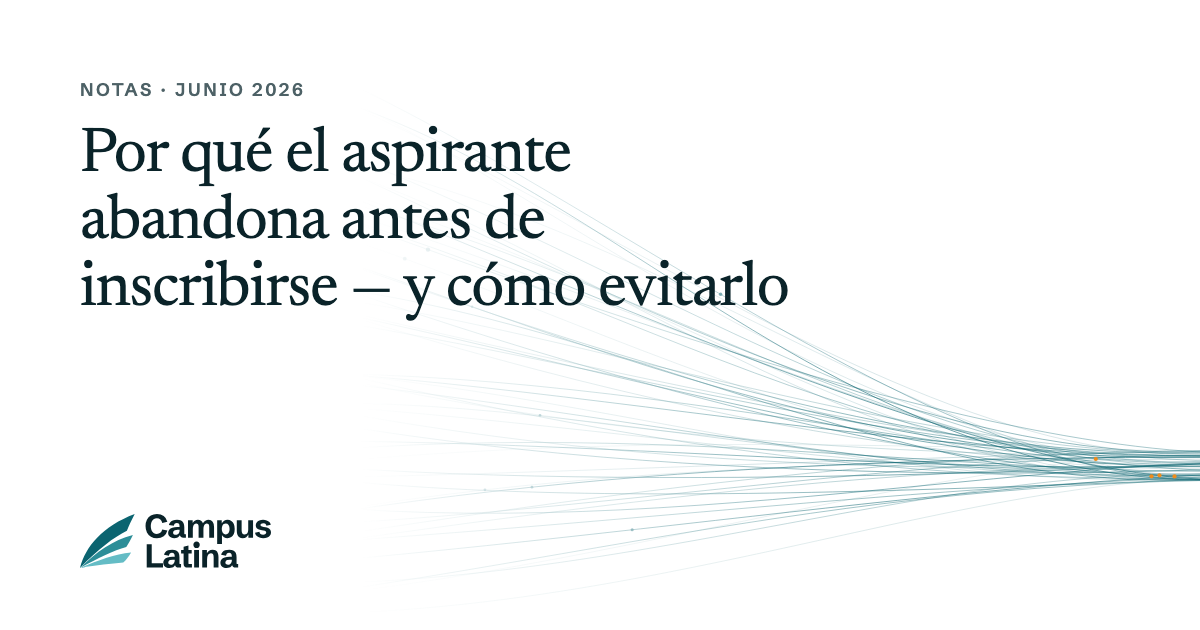
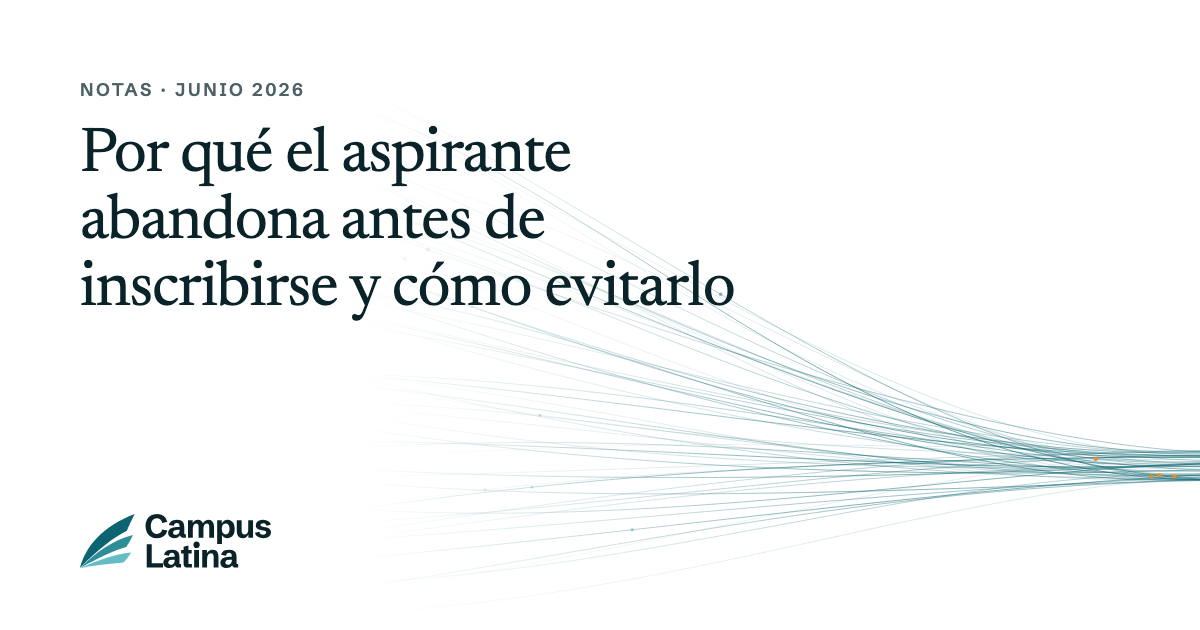
Notas: títulos sin raya para el inciso (y sus imágenes para compartir)

Changed region(s): [[0.2775, 0.3921, 0.6783, 0.5127]]

diff --git a/notas/index.html b/notas/index.html
@@ -44,7 +44,7 @@
 <meta name="twitter:image" content="https://campuslatina.com/og.png?v=4">
 <meta name="theme-color" content="#FFFFFF">
 <link rel="alternate" type="text/plain" title="Resumen para modelos de lenguaje" href="/llms.txt">
-<script type="application/ld+json">{"@context": "https://schema.org", "@graph": [{"@type": "Organization", "@id": "https://campuslatina.com/#organizacion", "name": "Campus Latina", "alternateName": "CampusLatina", "legalName": "Campus Argentina S.A.", "url": "https://campuslatina.com/", "logo": "https://campuslatina.com/logo.png", "email": "contacto@campuslatina.com", "description": "Socio de crecimiento de universidades en Latinoamérica: diseña y opera el proceso de admisión y los primeros pasos del estudiante.", "areaServed": "Latinoamérica", "address": [{"@type": "PostalAddress", "addressLocality": "Buenos Aires", "addressCountry": "AR"}, {"@type": "PostalAddress", "addressLocality": "Montevideo", "addressCountry": "UY"}], "founder": [{"@type": "Person", "name": "Sebastián Ledesma", "sameAs": ["https://www.linkedin.com/in/sebastianledesma/"]}, {"@type": "Person", "name": "Marcelo Seoane", "sameAs": ["https://www.linkedin.com/in/marcelo-seoane-/"]}], "sameAs": ["https://www.linkedin.com/company/campuslatina"]}, {"@type": "Blog", "@id": "https://campuslatina.com/notas/#blog", "name": "Notas de Campus Latina", "url": "https://campuslatina.com/notas/", "inLanguage": "es", "publisher": {"@id": "https://campuslatina.com/#organizacion"}, "blogPost": [{"@type": "BlogPosting", "headline": "Construir para el movimiento", "url": "https://campuslatina.com/notas/construir-para-el-movimiento", "datePublished": "2026-09"}, {"@type": "BlogPosting", "headline": "Por qué la mayoría de las universidades decide sin datos — y qué hacer al respecto", "url": "https://campuslatina.com/notas/cultura-de-evidencias-universidades", "datePublished": "2026-08"}, {"@type": "BlogPosting", "headline": "El bot no es la solución. El proceso que lo rodea, sí", "url": "https://campuslatina.com/notas/bot-no-es-la-solucion-proceso-admisiones", "datePublished": "2026-08"}, {"@type": "BlogPosting", "headline": "Qué pasa cuando un joven le pregunta a una IA qué estudiar — y su universidad no aparece", "url": "https://campuslatina.com/notas/universidad-visibilidad-ia-llm", "datePublished": "2026-07"}, {"@type": "BlogPosting", "headline": "Lo que los datos de 2026 confirman sobre cómo elige el estudiante latinoamericano", "url": "https://campuslatina.com/notas/como-elige-el-estudiante-latinoamericano-2026", "datePublished": "2026-07"}, {"@type": "BlogPosting", "headline": "Por qué el aspirante abandona antes de inscribirse — y cómo evitarlo", "url": "https://campuslatina.com/notas/por-que-el-aspirante-abandona-antes-de-inscribirse", "datePublished": "2026-06"}, {"@type": "BlogPosting", "headline": "El diseño del proceso es la estrategia", "url": "https://campuslatina.com/notas/el-diseno-del-proceso-es-la-estrategia", "datePublished": "2026-06"}]}, {"@type": "BreadcrumbList", "itemListElement": [{"@type": "ListItem", "position": 1, "name": "Inicio", "item": "https://campuslatina.com/"}, {"@type": "ListItem", "position": 2, "name": "Notas", "item": "https://campuslatina.com/notas/"}]}]}</script>
+<script type="application/ld+json">{"@context": "https://schema.org", "@graph": [{"@type": "Organization", "@id": "https://campuslatina.com/#organizacion", "name": "Campus Latina", "alternateName": "CampusLatina", "legalName": "Campus Argentina S.A.", "url": "https://campuslatina.com/", "logo": "https://campuslatina.com/logo.png", "email": "contacto@campuslatina.com", "description": "Socio de crecimiento de universidades en Latinoamérica: diseña y opera el proceso de admisión y los primeros pasos del estudiante.", "areaServed": "Latinoamérica", "address": [{"@type": "PostalAddress", "addressLocality": "Buenos Aires", "addressCountry": "AR"}, {"@type": "PostalAddress", "addressLocality": "Montevideo", "addressCountry": "UY"}], "founder": [{"@type": "Person", "name": "Sebastián Ledesma", "sameAs": ["https://www.linkedin.com/in/sebastianledesma/"]}, {"@type": "Person", "name": "Marcelo Seoane", "sameAs": ["https://www.linkedin.com/in/marcelo-seoane-/"]}], "sameAs": ["https://www.linkedin.com/company/campuslatina"]}, {"@type": "Blog", "@id": "https://campuslatina.com/notas/#blog", "name": "Notas de Campus Latina", "url": "https://campuslatina.com/notas/", "inLanguage": "es", "publisher": {"@id": "https://campuslatina.com/#organizacion"}, "blogPost": [{"@type": "BlogPosting", "headline": "Construir para el movimiento", "url": "https://campuslatina.com/notas/construir-para-el-movimiento", "datePublished": "2026-09"}, {"@type": "BlogPosting", "headline": "Por qué la mayoría de las universidades decide sin datos y qué hacer al respecto", "url": "https://campuslatina.com/notas/cultura-de-evidencias-universidades", "datePublished": "2026-08"}, {"@type": "BlogPosting", "headline": "El bot no es la solución. El proceso que lo rodea, sí", "url": "https://campuslatina.com/notas/bot-no-es-la-solucion-proceso-admisiones", "datePublished": "2026-08"}, {"@type": "BlogPosting", "headline": "Qué pasa cuando un joven le pregunta a una IA qué estudiar y su universidad no aparece", "url": "https://campuslatina.com/notas/universidad-visibilidad-ia-llm", "datePublished": "2026-07"}, {"@type": "BlogPosting", "headline": "Lo que los datos de 2026 confirman sobre cómo elige el estudiante latinoamericano", "url": "https://campuslatina.com/notas/como-elige-el-estudiante-latinoamericano-2026", "datePublished": "2026-07"}, {"@type": "BlogPosting", "headline": "Por qué el aspirante abandona antes de inscribirse y cómo evitarlo", "url": "https://campuslatina.com/notas/por-que-el-aspirante-abandona-antes-de-inscribirse", "datePublished": "2026-06"}, {"@type": "BlogPosting", "headline": "El diseño del proceso es la estrategia", "url": "https://campuslatina.com/notas/el-diseno-del-proceso-es-la-estrategia", "datePublished": "2026-06"}]}, {"@type": "BreadcrumbList", "itemListElement": [{"@type": "ListItem", "position": 1, "name": "Inicio", "item": "https://campuslatina.com/"}, {"@type": "ListItem", "position": 2, "name": "Notas", "item": "https://campuslatina.com/notas/"}]}]}</script>
 </head>
 <body>
 <header class="nav">
@@ -67,7 +67,7 @@
   </div>
 </section>
 <section class="sec" style="padding-top:0">
-  <div class="wrap"><ul class="lista"><li><a class="nota-fila" href="/notas/construir-para-el-movimiento"><span class="fecha">Sep 2026</span><div><h3>Construir para el movimiento</h3><p>La singularidad no es que la IA nos superó. Es que dejamos de poder predecir. Y para una universidad, eso ya pasó.</p><span class="autor">Sebastián Ledesma · 8 min de lectura</span></div><span class="flecha" aria-hidden="true">→</span></a></li><li><a class="nota-fila" href="/notas/cultura-de-evidencias-universidades"><span class="fecha">Ago 2026</span><div><h3>Por qué la mayoría de las universidades decide sin datos — y qué hacer al respecto</h3><p>Casi todas las instituciones tienen la tecnología para decidir con evidencia. Muy pocas la están usando para eso. La diferencia no es técnica — es cultural.</p><span class="autor">Sebastián Ledesma · 5 min de lectura</span></div><span class="flecha" aria-hidden="true">→</span></a></li><li><a class="nota-fila" href="/notas/bot-no-es-la-solucion-proceso-admisiones"><span class="fecha">Ago 2026</span><div><h3>El bot no es la solución. El proceso que lo rodea, sí</h3><p>Activar un chatbot de admisiones es fácil. Que ese chatbot mejore la conversión real es otra historia — y depende de cuatro condiciones que pocas instituciones cumplen.</p><span class="autor">Marcelo Seoane · 5 min de lectura</span></div><span class="flecha" aria-hidden="true">→</span></a></li><li><a class="nota-fila" href="/notas/como-elige-el-estudiante-latinoamericano-2026"><span class="fecha">Jul 2026</span><div><h3>Lo que los datos de 2026 confirman sobre cómo elige el estudiante latinoamericano</h3><p>El modelo de captación basado en leads está bajo presión. Los datos muestran que la marca y el journey completo son ahora la ventaja competitiva real.</p><span class="autor">Sebastián Ledesma · 5 min de lectura</span></div><span class="flecha" aria-hidden="true">→</span></a></li><li><a class="nota-fila" href="/notas/universidad-visibilidad-ia-llm"><span class="fecha">Jul 2026</span><div><h3>Qué pasa cuando un joven le pregunta a una IA qué estudiar — y su universidad no aparece</h3><p>Los motores de IA ya son parte del proceso de decisión educativa. Las instituciones que no estén presentes ahí están cediendo terreno sin saberlo.</p><span class="autor">Marcelo Seoane · 4 min de lectura</span></div><span class="flecha" aria-hidden="true">→</span></a></li><li><a class="nota-fila" href="/notas/el-diseno-del-proceso-es-la-estrategia"><span class="fecha">Jun 2026</span><div><h3>El diseño del proceso es la estrategia</h3><p>La mayoría de las universidades invierte en captación. Pocas invierten en el proceso que convierte a ese aspirante en estudiante. Ahí está la brecha.</p><span class="autor">Sebastián Ledesma · 5 min de lectura</span></div><span class="flecha" aria-hidden="true">→</span></a></li><li><a class="nota-fila" href="/notas/por-que-el-aspirante-abandona-antes-de-inscribirse"><span class="fecha">Jun 2026</span><div><h3>Por qué el aspirante abandona antes de inscribirse — y cómo evitarlo</h3><p>Aplicar Behavior Design al proceso de admisión no es una moda: es la diferencia entre un aspirante que avanza y uno que desaparece.</p><span class="autor">Marcelo Seoane · 6 min de lectura</span></div><span class="flecha" aria-hidden="true">→</span></a></li></ul></div>
+  <div class="wrap"><ul class="lista"><li><a class="nota-fila" href="/notas/construir-para-el-movimiento"><span class="fecha">Sep 2026</span><div><h3>Construir para el movimiento</h3><p>La singularidad no es que la IA nos superó. Es que dejamos de poder predecir. Y para una universidad, eso ya pasó.</p><span class="autor">Sebastián Ledesma · 8 min de lectura</span></div><span class="flecha" aria-hidden="true">→</span></a></li><li><a class="nota-fila" href="/notas/cultura-de-evidencias-universidades"><span class="fecha">Ago 2026</span><div><h3>Por qué la mayoría de las universidades decide sin datos y qué hacer al respecto</h3><p>Casi todas las instituciones tienen la tecnología para decidir con evidencia. Muy pocas la están usando para eso. La diferencia no es técnica — es cultural.</p><span class="autor">Sebastián Ledesma · 5 min de lectura</span></div><span class="flecha" aria-hidden="true">→</span></a></li><li><a class="nota-fila" href="/notas/bot-no-es-la-solucion-proceso-admisiones"><span class="fecha">Ago 2026</span><div><h3>El bot no es la solución. El proceso que lo rodea, sí</h3><p>Activar un chatbot de admisiones es fácil. Que ese chatbot mejore la conversión real es otra historia — y depende de cuatro condiciones que pocas instituciones cumplen.</p><span class="autor">Marcelo Seoane · 5 min de lectura</span></div><span class="flecha" aria-hidden="true">→</span></a></li><li><a class="nota-fila" href="/notas/como-elige-el-estudiante-latinoamericano-2026"><span class="fecha">Jul 2026</span><div><h3>Lo que los datos de 2026 confirman sobre cómo elige el estudiante latinoamericano</h3><p>El modelo de captación basado en leads está bajo presión. Los datos muestran que la marca y el journey completo son ahora la ventaja competitiva real.</p><span class="autor">Sebastián Ledesma · 5 min de lectura</span></div><span class="flecha" aria-hidden="true">→</span></a></li><li><a class="nota-fila" href="/notas/universidad-visibilidad-ia-llm"><span class="fecha">Jul 2026</span><div><h3>Qué pasa cuando un joven le pregunta a una IA qué estudiar y su universidad no aparece</h3><p>Los motores de IA ya son parte del proceso de decisión educativa. Las instituciones que no estén presentes ahí están cediendo terreno sin saberlo.</p><span class="autor">Marcelo Seoane · 4 min de lectura</span></div><span class="flecha" aria-hidden="true">→</span></a></li><li><a class="nota-fila" href="/notas/el-diseno-del-proceso-es-la-estrategia"><span class="fecha">Jun 2026</span><div><h3>El diseño del proceso es la estrategia</h3><p>La mayoría de las universidades invierte en captación. Pocas invierten en el proceso que convierte a ese aspirante en estudiante. Ahí está la brecha.</p><span class="autor">Sebastián Ledesma · 5 min de lectura</span></div><span class="flecha" aria-hidden="true">→</span></a></li><li><a class="nota-fila" href="/notas/por-que-el-aspirante-abandona-antes-de-inscribirse"><span class="fecha">Jun 2026</span><div><h3>Por qué el aspirante abandona antes de inscribirse y cómo evitarlo</h3><p>Aplicar Behavior Design al proceso de admisión no es una moda: es la diferencia entre un aspirante que avanza y uno que desaparece.</p><span class="autor">Marcelo Seoane · 6 min de lectura</span></div><span class="flecha" aria-hidden="true">→</span></a></li></ul></div>
 </section>
 <section class="sec alt" aria-labelledby="llamado-t">
   <div class="wrap llamado">

diff --git a/notas/por-que-el-aspirante-abandona-antes-de-inscribirse.html b/notas/por-que-el-aspirante-abandona-antes-de-inscribirse.html
@@ -10,7 +10,7 @@
 <link rel="icon" type="image/svg+xml" href="/assets/isotipo.svg">
 <link rel="apple-touch-icon" href="/apple-touch-icon.png">
 <link rel="manifest" href="/manifest.webmanifest">
-<title>Por qué el aspirante abandona antes de inscribirse — y cómo evitarlo — Campus Latina</title>
+<title>Por qué el aspirante abandona antes de inscribirse y cómo evitarlo — Campus Latina</title>
 <meta name="description" content="El abandono en admisión rara vez es por falta de interés. Casi siempre es por falta de diseño. Entender la diferencia cambia todo.">
 <!-- Google Analytics 4: la librería se carga después de que la página terminó de cargar, para no frenar la primera pintura.
      Los eventos que se registren antes quedan en dataLayer y se envían igual. -->
@@ -32,19 +32,19 @@
 <meta property="og:type" content="article">
 <meta property="og:site_name" content="Campus Latina">
 <meta property="og:locale" content="es_LA">
-<meta property="og:title" content="Por qué el aspirante abandona antes de inscribirse — y cómo evitarlo">
+<meta property="og:title" content="Por qué el aspirante abandona antes de inscribirse y cómo evitarlo">
 <meta property="og:description" content="El abandono en admisión rara vez es por falta de interés. Casi siempre es por falta de diseño. Entender la diferencia cambia todo.">
 <meta property="og:url" content="https://campuslatina.com/notas/por-que-el-aspirante-abandona-antes-de-inscribirse">
-<meta property="og:image" content="https://campuslatina.com/assets/notas/por-que-el-aspirante-abandona-antes-de-inscribirse.png">
+<meta property="og:image" content="https://campuslatina.com/assets/notas/por-que-el-aspirante-abandona-antes-de-inscribirse.png?v=2">
 <meta property="og:image:width" content="1200">
 <meta property="og:image:height" content="630">
 <meta name="twitter:card" content="summary_large_image">
-<meta name="twitter:title" content="Por qué el aspirante abandona antes de inscribirse — y cómo evitarlo">
+<meta name="twitter:title" content="Por qué el aspirante abandona antes de inscribirse y cómo evitarlo">
 <meta name="twitter:description" content="El abandono en admisión rara vez es por falta de interés. Casi siempre es por falta de diseño. Entender la diferencia cambia todo.">
-<meta name="twitter:image" content="https://campuslatina.com/assets/notas/por-que-el-aspirante-abandona-antes-de-inscribirse.png">
+<meta name="twitter:image" content="https://campuslatina.com/assets/notas/por-que-el-aspirante-abandona-antes-de-inscribirse.png?v=2">
 <meta name="theme-color" content="#FFFFFF">
 <link rel="alternate" type="text/plain" title="Resumen para modelos de lenguaje" href="/llms.txt">
-<script type="application/ld+json">{"@context": "https://schema.org", "@graph": [{"@type": "Organization", "@id": "https://campuslatina.com/#organizacion", "name": "Campus Latina", "alternateName": "CampusLatina", "legalName": "Campus Argentina S.A.", "url": "https://campuslatina.com/", "logo": "https://campuslatina.com/logo.png", "email": "contacto@campuslatina.com", "description": "Socio de crecimiento de universidades en Latinoamérica: diseña y opera el proceso de admisión y los primeros pasos del estudiante.", "areaServed": "Latinoamérica", "address": [{"@type": "PostalAddress", "addressLocality": "Buenos Aires", "addressCountry": "AR"}, {"@type": "PostalAddress", "addressLocality": "Montevideo", "addressCountry": "UY"}], "founder": [{"@type": "Person", "name": "Sebastián Ledesma", "sameAs": ["https://www.linkedin.com/in/sebastianledesma/"]}, {"@type": "Person", "name": "Marcelo Seoane", "sameAs": ["https://www.linkedin.com/in/marcelo-seoane-/"]}], "sameAs": ["https://www.linkedin.com/company/campuslatina"]}, {"@type": "BlogPosting", "@id": "https://campuslatina.com/notas/por-que-el-aspirante-abandona-antes-de-inscribirse#nota", "headline": "Por qué el aspirante abandona antes de inscribirse — y cómo evitarlo", "description": "El abandono en admisión rara vez es por falta de interés. Casi siempre es por falta de diseño. Entender la diferencia cambia todo.", "inLanguage": "es", "datePublished": "2026-06-23", "dateModified": "2026-06-23", "url": "https://campuslatina.com/notas/por-que-el-aspirante-abandona-antes-de-inscribirse", "mainEntityOfPage": "https://campuslatina.com/notas/por-que-el-aspirante-abandona-antes-de-inscribirse", "image": "https://campuslatina.com/assets/notas/por-que-el-aspirante-abandona-antes-de-inscribirse.png", "author": {"@type": "Person", "name": "Marcelo Seoane", "jobTitle": "Co-founder, Campus Latina", "worksFor": {"@id": "https://campuslatina.com/#organizacion"}, "sameAs": ["https://www.linkedin.com/in/marcelo-seoane-/"]}, "publisher": {"@id": "https://campuslatina.com/#organizacion"}, "isPartOf": {"@id": "https://campuslatina.com/notas/#blog"}, "about": [{"@type": "Thing", "name": "Acompañamiento", "url": "https://diagnostico.campuslatina.com/guia/acompanamiento/"}, {"@type": "Thing", "name": "Inscripción", "url": "https://diagnostico.campuslatina.com/guia/inscripcion/"}, {"@type": "Thing", "name": "Retención temprana", "url": "https://diagnostico.campuslatina.com/guia/retencion-temprana/"}]}, {"@type": "BreadcrumbList", "itemListElement": [{"@type": "ListItem", "position": 1, "name": "Inicio", "item": "https://campuslatina.com/"}, {"@type": "ListItem", "position": 2, "name": "Notas", "item": "https://campuslatina.com/notas/"}, {"@type": "ListItem", "position": 3, "name": "Por qué el aspirante abandona antes de inscribirse — y cómo evitarlo", "item": "https://campuslatina.com/notas/por-que-el-aspirante-abandona-antes-de-inscribirse"}]}]}</script>
+<script type="application/ld+json">{"@context": "https://schema.org", "@graph": [{"@type": "Organization", "@id": "https://campuslatina.com/#organizacion", "name": "Campus Latina", "alternateName": "CampusLatina", "legalName": "Campus Argentina S.A.", "url": "https://campuslatina.com/", "logo": "https://campuslatina.com/logo.png", "email": "contacto@campuslatina.com", "description": "Socio de crecimiento de universidades en Latinoamérica: diseña y opera el proceso de admisión y los primeros pasos del estudiante.", "areaServed": "Latinoamérica", "address": [{"@type": "PostalAddress", "addressLocality": "Buenos Aires", "addressCountry": "AR"}, {"@type": "PostalAddress", "addressLocality": "Montevideo", "addressCountry": "UY"}], "founder": [{"@type": "Person", "name": "Sebastián Ledesma", "sameAs": ["https://www.linkedin.com/in/sebastianledesma/"]}, {"@type": "Person", "name": "Marcelo Seoane", "sameAs": ["https://www.linkedin.com/in/marcelo-seoane-/"]}], "sameAs": ["https://www.linkedin.com/company/campuslatina"]}, {"@type": "BlogPosting", "@id": "https://campuslatina.com/notas/por-que-el-aspirante-abandona-antes-de-inscribirse#nota", "headline": "Por qué el aspirante abandona antes de inscribirse y cómo evitarlo", "description": "El abandono en admisión rara vez es por falta de interés. Casi siempre es por falta de diseño. Entender la diferencia cambia todo.", "inLanguage": "es", "datePublished": "2026-06-23", "dateModified": "2026-06-23", "url": "https://campuslatina.com/notas/por-que-el-aspirante-abandona-antes-de-inscribirse", "mainEntityOfPage": "https://campuslatina.com/notas/por-que-el-aspirante-abandona-antes-de-inscribirse", "image": "https://campuslatina.com/assets/notas/por-que-el-aspirante-abandona-antes-de-inscribirse.png?v=2", "author": {"@type": "Person", "name": "Marcelo Seoane", "jobTitle": "Co-founder, Campus Latina", "worksFor": {"@id": "https://campuslatina.com/#organizacion"}, "sameAs": ["https://www.linkedin.com/in/marcelo-seoane-/"]}, "publisher": {"@id": "https://campuslatina.com/#organizacion"}, "isPartOf": {"@id": "https://campuslatina.com/notas/#blog"}, "about": [{"@type": "Thing", "name": "Acompañamiento", "url": "https://diagnostico.campuslatina.com/guia/acompanamiento/"}, {"@type": "Thing", "name": "Inscripción", "url": "https://diagnostico.campuslatina.com/guia/inscripcion/"}, {"@type": "Thing", "name": "Retención temprana", "url": "https://diagnostico.campuslatina.com/guia/retencion-temprana/"}]}, {"@type": "BreadcrumbList", "itemListElement": [{"@type": "ListItem", "position": 1, "name": "Inicio", "item": "https://campuslatina.com/"}, {"@type": "ListItem", "position": 2, "name": "Notas", "item": "https://campuslatina.com/notas/"}, {"@type": "ListItem", "position": 3, "name": "Por qué el aspirante abandona antes de inscribirse y cómo evitarlo", "item": "https://campuslatina.com/notas/por-que-el-aspirante-abandona-antes-de-inscribirse"}]}]}</script>
 </head>
 <body>
 <header class="nav">
@@ -60,7 +60,7 @@
   <header class="articulo-cab">
     <div class="wrap">
       <a href="/notas/" class="etiqueta" style="text-decoration:none">← Notas</a>
-      <h1>Por qué el aspirante abandona antes de inscribirse — y cómo evitarlo</h1>
+      <h1>Por qué el aspirante abandona antes de inscribirse y cómo evitarlo</h1>
       <p class="bajada">El abandono en admisión rara vez es por falta de interés. Casi siempre es por falta de diseño. Entender la diferencia cambia todo.</p>
       <p class="firma"><span>Por <b>Marcelo Seoane</b>, cofundador de Campus Latina</span><span>Junio 2026</span><span>6 min de lectura</span></p>
     </div>

diff --git a/notas/universidad-visibilidad-ia-llm.html b/notas/universidad-visibilidad-ia-llm.html
@@ -32,19 +32,19 @@
 <meta property="og:type" content="article">
 <meta property="og:site_name" content="Campus Latina">
 <meta property="og:locale" content="es_LA">
-<meta property="og:title" content="Qué pasa cuando un joven le pregunta a una IA qué estudiar — y su universidad no aparece">
+<meta property="og:title" content="Qué pasa cuando un joven le pregunta a una IA qué estudiar y su universidad no aparece">
 <meta property="og:description" content="Los motores de inteligencia artificial ya son parte del proceso de decisión educativa. Las instituciones que no estén presentes ahí están cediendo terreno sin saberlo.">
 <meta property="og:url" content="https://campuslatina.com/notas/universidad-visibilidad-ia-llm">
-<meta property="og:image" content="https://campuslatina.com/assets/notas/universidad-visibilidad-ia-llm.png">
+<meta property="og:image" content="https://campuslatina.com/assets/notas/universidad-visibilidad-ia-llm.png?v=2">
 <meta property="og:image:width" content="1200">
 <meta property="og:image:height" content="630">
 <meta name="twitter:card" content="summary_large_image">
-<meta name="twitter:title" content="Qué pasa cuando un joven le pregunta a una IA qué estudiar — y su universidad no aparece">
+<meta name="twitter:title" content="Qué pasa cuando un joven le pregunta a una IA qué estudiar y su universidad no aparece">
 <meta name="twitter:description" content="Los motores de inteligencia artificial ya son parte del proceso de decisión educativa. Las instituciones que no estén presentes ahí están cediendo terreno sin saberlo.">
-<meta name="twitter:image" content="https://campuslatina.com/assets/notas/universidad-visibilidad-ia-llm.png">
+<meta name="twitter:image" content="https://campuslatina.com/assets/notas/universidad-visibilidad-ia-llm.png?v=2">
 <meta name="theme-color" content="#FFFFFF">
 <link rel="alternate" type="text/plain" title="Resumen para modelos de lenguaje" href="/llms.txt">
-<script type="application/ld+json">{"@context": "https://schema.org", "@graph": [{"@type": "Organization", "@id": "https://campuslatina.com/#organizacion", "name": "Campus Latina", "alternateName": "CampusLatina", "legalName": "Campus Argentina S.A.", "url": "https://campuslatina.com/", "logo": "https://campuslatina.com/logo.png", "email": "contacto@campuslatina.com", "description": "Socio de crecimiento de universidades en Latinoamérica: diseña y opera el proceso de admisión y los primeros pasos del estudiante.", "areaServed": "Latinoamérica", "address": [{"@type": "PostalAddress", "addressLocality": "Buenos Aires", "addressCountry": "AR"}, {"@type": "PostalAddress", "addressLocality": "Montevideo", "addressCountry": "UY"}], "founder": [{"@type": "Person", "name": "Sebastián Ledesma", "sameAs": ["https://www.linkedin.com/in/sebastianledesma/"]}, {"@type": "Person", "name": "Marcelo Seoane", "sameAs": ["https://www.linkedin.com/in/marcelo-seoane-/"]}], "sameAs": ["https://www.linkedin.com/company/campuslatina"]}, {"@type": "BlogPosting", "@id": "https://campuslatina.com/notas/universidad-visibilidad-ia-llm#nota", "headline": "Qué pasa cuando un joven le pregunta a una IA qué estudiar — y su universidad no aparece", "description": "Los motores de inteligencia artificial ya son parte del proceso de decisión educativa. Las instituciones que no estén presentes ahí están cediendo terreno sin saberlo.", "inLanguage": "es", "datePublished": "2026-07-21", "dateModified": "2026-07-21", "url": "https://campuslatina.com/notas/universidad-visibilidad-ia-llm", "mainEntityOfPage": "https://campuslatina.com/notas/universidad-visibilidad-ia-llm", "image": "https://campuslatina.com/assets/notas/universidad-visibilidad-ia-llm.png", "author": {"@type": "Person", "name": "Marcelo Seoane", "jobTitle": "Co-founder, Campus Latina", "worksFor": {"@id": "https://campuslatina.com/#organizacion"}, "sameAs": ["https://www.linkedin.com/in/marcelo-seoane-/"]}, "publisher": {"@id": "https://campuslatina.com/#organizacion"}, "isPartOf": {"@id": "https://campuslatina.com/notas/#blog"}, "about": [{"@type": "Thing", "name": "Descubrimiento", "url": "https://diagnostico.campuslatina.com/guia/descubrimiento/"}]}, {"@type": "BreadcrumbList", "itemListElement": [{"@type": "ListItem", "position": 1, "name": "Inicio", "item": "https://campuslatina.com/"}, {"@type": "ListItem", "position": 2, "name": "Notas", "item": "https://campuslatina.com/notas/"}, {"@type": "ListItem", "position": 3, "name": "Qué pasa cuando un joven le pregunta a una IA qué estudiar — y su universidad no aparece", "item": "https://campuslatina.com/notas/universidad-visibilidad-ia-llm"}]}]}</script>
+<script type="application/ld+json">{"@context": "https://schema.org", "@graph": [{"@type": "Organization", "@id": "https://campuslatina.com/#organizacion", "name": "Campus Latina", "alternateName": "CampusLatina", "legalName": "Campus Argentina S.A.", "url": "https://campuslatina.com/", "logo": "https://campuslatina.com/logo.png", "email": "contacto@campuslatina.com", "description": "Socio de crecimiento de universidades en Latinoamérica: diseña y opera el proceso de admisión y los primeros pasos del estudiante.", "areaServed": "Latinoamérica", "address": [{"@type": "PostalAddress", "addressLocality": "Buenos Aires", "addressCountry": "AR"}, {"@type": "PostalAddress", "addressLocality": "Montevideo", "addressCountry": "UY"}], "founder": [{"@type": "Person", "name": "Sebastián Ledesma", "sameAs": ["https://www.linkedin.com/in/sebastianledesma/"]}, {"@type": "Person", "name": "Marcelo Seoane", "sameAs": ["https://www.linkedin.com/in/marcelo-seoane-/"]}], "sameAs": ["https://www.linkedin.com/company/campuslatina"]}, {"@type": "BlogPosting", "@id": "https://campuslatina.com/notas/universidad-visibilidad-ia-llm#nota", "headline": "Qué pasa cuando un joven le pregunta a una IA qué estudiar y su universidad no aparece", "description": "Los motores de inteligencia artificial ya son parte del proceso de decisión educativa. Las instituciones que no estén presentes ahí están cediendo terreno sin saberlo.", "inLanguage": "es", "datePublished": "2026-07-21", "dateModified": "2026-07-21", "url": "https://campuslatina.com/notas/universidad-visibilidad-ia-llm", "mainEntityOfPage": "https://campuslatina.com/notas/universidad-visibilidad-ia-llm", "image": "https://campuslatina.com/assets/notas/universidad-visibilidad-ia-llm.png?v=2", "author": {"@type": "Person", "name": "Marcelo Seoane", "jobTitle": "Co-founder, Campus Latina", "worksFor": {"@id": "https://campuslatina.com/#organizacion"}, "sameAs": ["https://www.linkedin.com/in/marcelo-seoane-/"]}, "publisher": {"@id": "https://campuslatina.com/#organizacion"}, "isPartOf": {"@id": "https://campuslatina.com/notas/#blog"}, "about": [{"@type": "Thing", "name": "Descubrimiento", "url": "https://diagnostico.campuslatina.com/guia/descubrimiento/"}]}, {"@type": "BreadcrumbList", "itemListElement": [{"@type": "ListItem", "position": 1, "name": "Inicio", "item": "https://campuslatina.com/"}, {"@type": "ListItem", "position": 2, "name": "Notas", "item": "https://campuslatina.com/notas/"}, {"@type": "ListItem", "position": 3, "name": "Qué pasa cuando un joven le pregunta a una IA qué estudiar y su universidad no aparece", "item": "https://campuslatina.com/notas/universidad-visibilidad-ia-llm"}]}]}</script>
 </head>
 <body>
 <header class="nav">
@@ -60,7 +60,7 @@
   <header class="articulo-cab">
     <div class="wrap">
       <a href="/notas/" class="etiqueta" style="text-decoration:none">← Notas</a>
-      <h1>Qué pasa cuando un joven le pregunta a una IA qué estudiar — y su universidad no aparece</h1>
+      <h1>Qué pasa cuando un joven le pregunta a una IA qué estudiar y su universidad no aparece</h1>
       <p class="bajada">Los motores de inteligencia artificial ya son parte del proceso de decisión educativa. Las instituciones que no estén presentes ahí están cediendo terreno sin saberlo.</p>
       <p class="firma"><span>Por <b>Marcelo Seoane</b>, cofundador de Campus Latina</span><span>Julio 2026</span><span>4 min de lectura</span></p>
     </div>

diff --git a/notas/cultura-de-evidencias-universidades.html b/notas/cultura-de-evidencias-universidades.html
@@ -32,19 +32,19 @@
 <meta property="og:type" content="article">
 <meta property="og:site_name" content="Campus Latina">
 <meta property="og:locale" content="es_LA">
-<meta property="og:title" content="Por qué la mayoría de las universidades decide sin datos — y qué hacer al respecto">
+<meta property="og:title" content="Por qué la mayoría de las universidades decide sin datos y qué hacer al respecto">
 <meta property="og:description" content="Casi todas las instituciones tienen la tecnología para decidir con evidencia. Muy pocas la están usando para eso. La diferencia no es técnica — es cultural.">
 <meta property="og:url" content="https://campuslatina.com/notas/cultura-de-evidencias-universidades">
-<meta property="og:image" content="https://campuslatina.com/assets/notas/cultura-de-evidencias-universidades.png">
+<meta property="og:image" content="https://campuslatina.com/assets/notas/cultura-de-evidencias-universidades.png?v=2">
 <meta property="og:image:width" content="1200">
 <meta property="og:image:height" content="630">
 <meta name="twitter:card" content="summary_large_image">
-<meta name="twitter:title" content="Por qué la mayoría de las universidades decide sin datos — y qué hacer al respecto">
+<meta name="twitter:title" content="Por qué la mayoría de las universidades decide sin datos y qué hacer al respecto">
 <meta name="twitter:description" content="Casi todas las instituciones tienen la tecnología para decidir con evidencia. Muy pocas la están usando para eso. La diferencia no es técnica — es cultural.">
-<meta name="twitter:image" content="https://campuslatina.com/assets/notas/cultura-de-evidencias-universidades.png">
+<meta name="twitter:image" content="https://campuslatina.com/assets/notas/cultura-de-evidencias-universidades.png?v=2">
 <meta name="theme-color" content="#FFFFFF">
 <link rel="alternate" type="text/plain" title="Resumen para modelos de lenguaje" href="/llms.txt">
-<script type="application/ld+json">{"@context": "https://schema.org", "@graph": [{"@type": "Organization", "@id": "https://campuslatina.com/#organizacion", "name": "Campus Latina", "alternateName": "CampusLatina", "legalName": "Campus Argentina S.A.", "url": "https://campuslatina.com/", "logo": "https://campuslatina.com/logo.png", "email": "contacto@campuslatina.com", "description": "Socio de crecimiento de universidades en Latinoamérica: diseña y opera el proceso de admisión y los primeros pasos del estudiante.", "areaServed": "Latinoamérica", "address": [{"@type": "PostalAddress", "addressLocality": "Buenos Aires", "addressCountry": "AR"}, {"@type": "PostalAddress", "addressLocality": "Montevideo", "addressCountry": "UY"}], "founder": [{"@type": "Person", "name": "Sebastián Ledesma", "sameAs": ["https://www.linkedin.com/in/sebastianledesma/"]}, {"@type": "Person", "name": "Marcelo Seoane", "sameAs": ["https://www.linkedin.com/in/marcelo-seoane-/"]}], "sameAs": ["https://www.linkedin.com/company/campuslatina"]}, {"@type": "BlogPosting", "@id": "https://campuslatina.com/notas/cultura-de-evidencias-universidades#nota", "headline": "Por qué la mayoría de las universidades decide sin datos — y qué hacer al respecto", "description": "Casi todas las instituciones tienen la tecnología para decidir con evidencia. Muy pocas la están usando para eso. La diferencia no es técnica — es cultural.", "inLanguage": "es", "datePublished": "2026-08-25", "dateModified": "2026-08-25", "url": "https://campuslatina.com/notas/cultura-de-evidencias-universidades", "mainEntityOfPage": "https://campuslatina.com/notas/cultura-de-evidencias-universidades", "image": "https://campuslatina.com/assets/notas/cultura-de-evidencias-universidades.png", "author": {"@type": "Person", "name": "Sebastián Ledesma", "jobTitle": "Co-founder, Campus Latina", "worksFor": {"@id": "https://campuslatina.com/#organizacion"}, "sameAs": ["https://www.linkedin.com/in/sebastianledesma/"]}, "publisher": {"@id": "https://campuslatina.com/#organizacion"}, "isPartOf": {"@id": "https://campuslatina.com/notas/#blog"}}, {"@type": "BreadcrumbList", "itemListElement": [{"@type": "ListItem", "position": 1, "name": "Inicio", "item": "https://campuslatina.com/"}, {"@type": "ListItem", "position": 2, "name": "Notas", "item": "https://campuslatina.com/notas/"}, {"@type": "ListItem", "position": 3, "name": "Por qué la mayoría de las universidades decide sin datos — y qué hacer al respecto", "item": "https://campuslatina.com/notas/cultura-de-evidencias-universidades"}]}]}</script>
+<script type="application/ld+json">{"@context": "https://schema.org", "@graph": [{"@type": "Organization", "@id": "https://campuslatina.com/#organizacion", "name": "Campus Latina", "alternateName": "CampusLatina", "legalName": "Campus Argentina S.A.", "url": "https://campuslatina.com/", "logo": "https://campuslatina.com/logo.png", "email": "contacto@campuslatina.com", "description": "Socio de crecimiento de universidades en Latinoamérica: diseña y opera el proceso de admisión y los primeros pasos del estudiante.", "areaServed": "Latinoamérica", "address": [{"@type": "PostalAddress", "addressLocality": "Buenos Aires", "addressCountry": "AR"}, {"@type": "PostalAddress", "addressLocality": "Montevideo", "addressCountry": "UY"}], "founder": [{"@type": "Person", "name": "Sebastián Ledesma", "sameAs": ["https://www.linkedin.com/in/sebastianledesma/"]}, {"@type": "Person", "name": "Marcelo Seoane", "sameAs": ["https://www.linkedin.com/in/marcelo-seoane-/"]}], "sameAs": ["https://www.linkedin.com/company/campuslatina"]}, {"@type": "BlogPosting", "@id": "https://campuslatina.com/notas/cultura-de-evidencias-universidades#nota", "headline": "Por qué la mayoría de las universidades decide sin datos y qué hacer al respecto", "description": "Casi todas las instituciones tienen la tecnología para decidir con evidencia. Muy pocas la están usando para eso. La diferencia no es técnica — es cultural.", "inLanguage": "es", "datePublished": "2026-08-25", "dateModified": "2026-08-25", "url": "https://campuslatina.com/notas/cultura-de-evidencias-universidades", "mainEntityOfPage": "https://campuslatina.com/notas/cultura-de-evidencias-universidades", "image": "https://campuslatina.com/assets/notas/cultura-de-evidencias-universidades.png?v=2", "author": {"@type": "Person", "name": "Sebastián Ledesma", "jobTitle": "Co-founder, Campus Latina", "worksFor": {"@id": "https://campuslatina.com/#organizacion"}, "sameAs": ["https://www.linkedin.com/in/sebastianledesma/"]}, "publisher": {"@id": "https://campuslatina.com/#organizacion"}, "isPartOf": {"@id": "https://campuslatina.com/notas/#blog"}}, {"@type": "BreadcrumbList", "itemListElement": [{"@type": "ListItem", "position": 1, "name": "Inicio", "item": "https://campuslatina.com/"}, {"@type": "ListItem", "position": 2, "name": "Notas", "item": "https://campuslatina.com/notas/"}, {"@type": "ListItem", "position": 3, "name": "Por qué la mayoría de las universidades decide sin datos y qué hacer al respecto", "item": "https://campuslatina.com/notas/cultura-de-evidencias-universidades"}]}]}</script>
 </head>
 <body>
 <header class="nav">
@@ -60,7 +60,7 @@
   <header class="articulo-cab">
     <div class="wrap">
       <a href="/notas/" class="etiqueta" style="text-decoration:none">← Notas</a>
-      <h1>Por qué la mayoría de las universidades decide sin datos — y qué hacer al respecto</h1>
+      <h1>Por qué la mayoría de las universidades decide sin datos y qué hacer al respecto</h1>
       <p class="bajada">Casi todas las instituciones tienen la tecnología para decidir con evidencia. Muy pocas la están usando para eso. La diferencia no es técnica — es cultural.</p>
       <p class="firma"><span>Por <b>Sebastián Ledesma</b>, cofundador de Campus Latina</span><span>Agosto 2026</span><span>5 min de lectura</span></p>
     </div>

diff --git a/index.html b/index.html
@@ -424,7 +424,7 @@
       <div><span class="etiqueta">Notas</span><h2 class="titulo-1" id="notas-t">Lo que pensamos.</h2></div>
       <a href="/notas/" class="enlace">Todas las notas →</a>
     </div>
-    <ul class="lista"><li><a class="nota-fila" href="/notas/construir-para-el-movimiento"><span class="fecha">Sep 2026</span><div><h3>Construir para el movimiento</h3><p>La singularidad no es que la IA nos superó. Es que dejamos de poder predecir. Y para una universidad, eso ya pasó.</p></div><span class="flecha" aria-hidden="true">→</span></a></li><li><a class="nota-fila" href="/notas/cultura-de-evidencias-universidades"><span class="fecha">Ago 2026</span><div><h3>Por qué la mayoría de las universidades decide sin datos — y qué hacer al respecto</h3><p>Casi todas las instituciones tienen la tecnología para decidir con evidencia. Muy pocas la están usando para eso. La diferencia no es técnica — es cultural.</p></div><span class="flecha" aria-hidden="true">→</span></a></li><li><a class="nota-fila" href="/notas/bot-no-es-la-solucion-proceso-admisiones"><span class="fecha">Ago 2026</span><div><h3>El bot no es la solución. El proceso que lo rodea, sí</h3><p>Activar un chatbot de admisiones es fácil. Que ese chatbot mejore la conversión real es otra historia — y depende de cuatro condiciones que pocas instituciones cumplen.</p></div><span class="flecha" aria-hidden="true">→</span></a></li></ul>
+    <ul class="lista"><li><a class="nota-fila" href="/notas/construir-para-el-movimiento"><span class="fecha">Sep 2026</span><div><h3>Construir para el movimiento</h3><p>La singularidad no es que la IA nos superó. Es que dejamos de poder predecir. Y para una universidad, eso ya pasó.</p></div><span class="flecha" aria-hidden="true">→</span></a></li><li><a class="nota-fila" href="/notas/cultura-de-evidencias-universidades"><span class="fecha">Ago 2026</span><div><h3>Por qué la mayoría de las universidades decide sin datos y qué hacer al respecto</h3><p>Casi todas las instituciones tienen la tecnología para decidir con evidencia. Muy pocas la están usando para eso. La diferencia no es técnica — es cultural.</p></div><span class="flecha" aria-hidden="true">→</span></a></li><li><a class="nota-fila" href="/notas/bot-no-es-la-solucion-proceso-admisiones"><span class="fecha">Ago 2026</span><div><h3>El bot no es la solución. El proceso que lo rodea, sí</h3><p>Activar un chatbot de admisiones es fácil. Que ese chatbot mejore la conversión real es otra historia — y depende de cuatro condiciones que pocas instituciones cumplen.</p></div><span class="flecha" aria-hidden="true">→</span></a></li></ul>
   </div>
 </section>
 </main>
